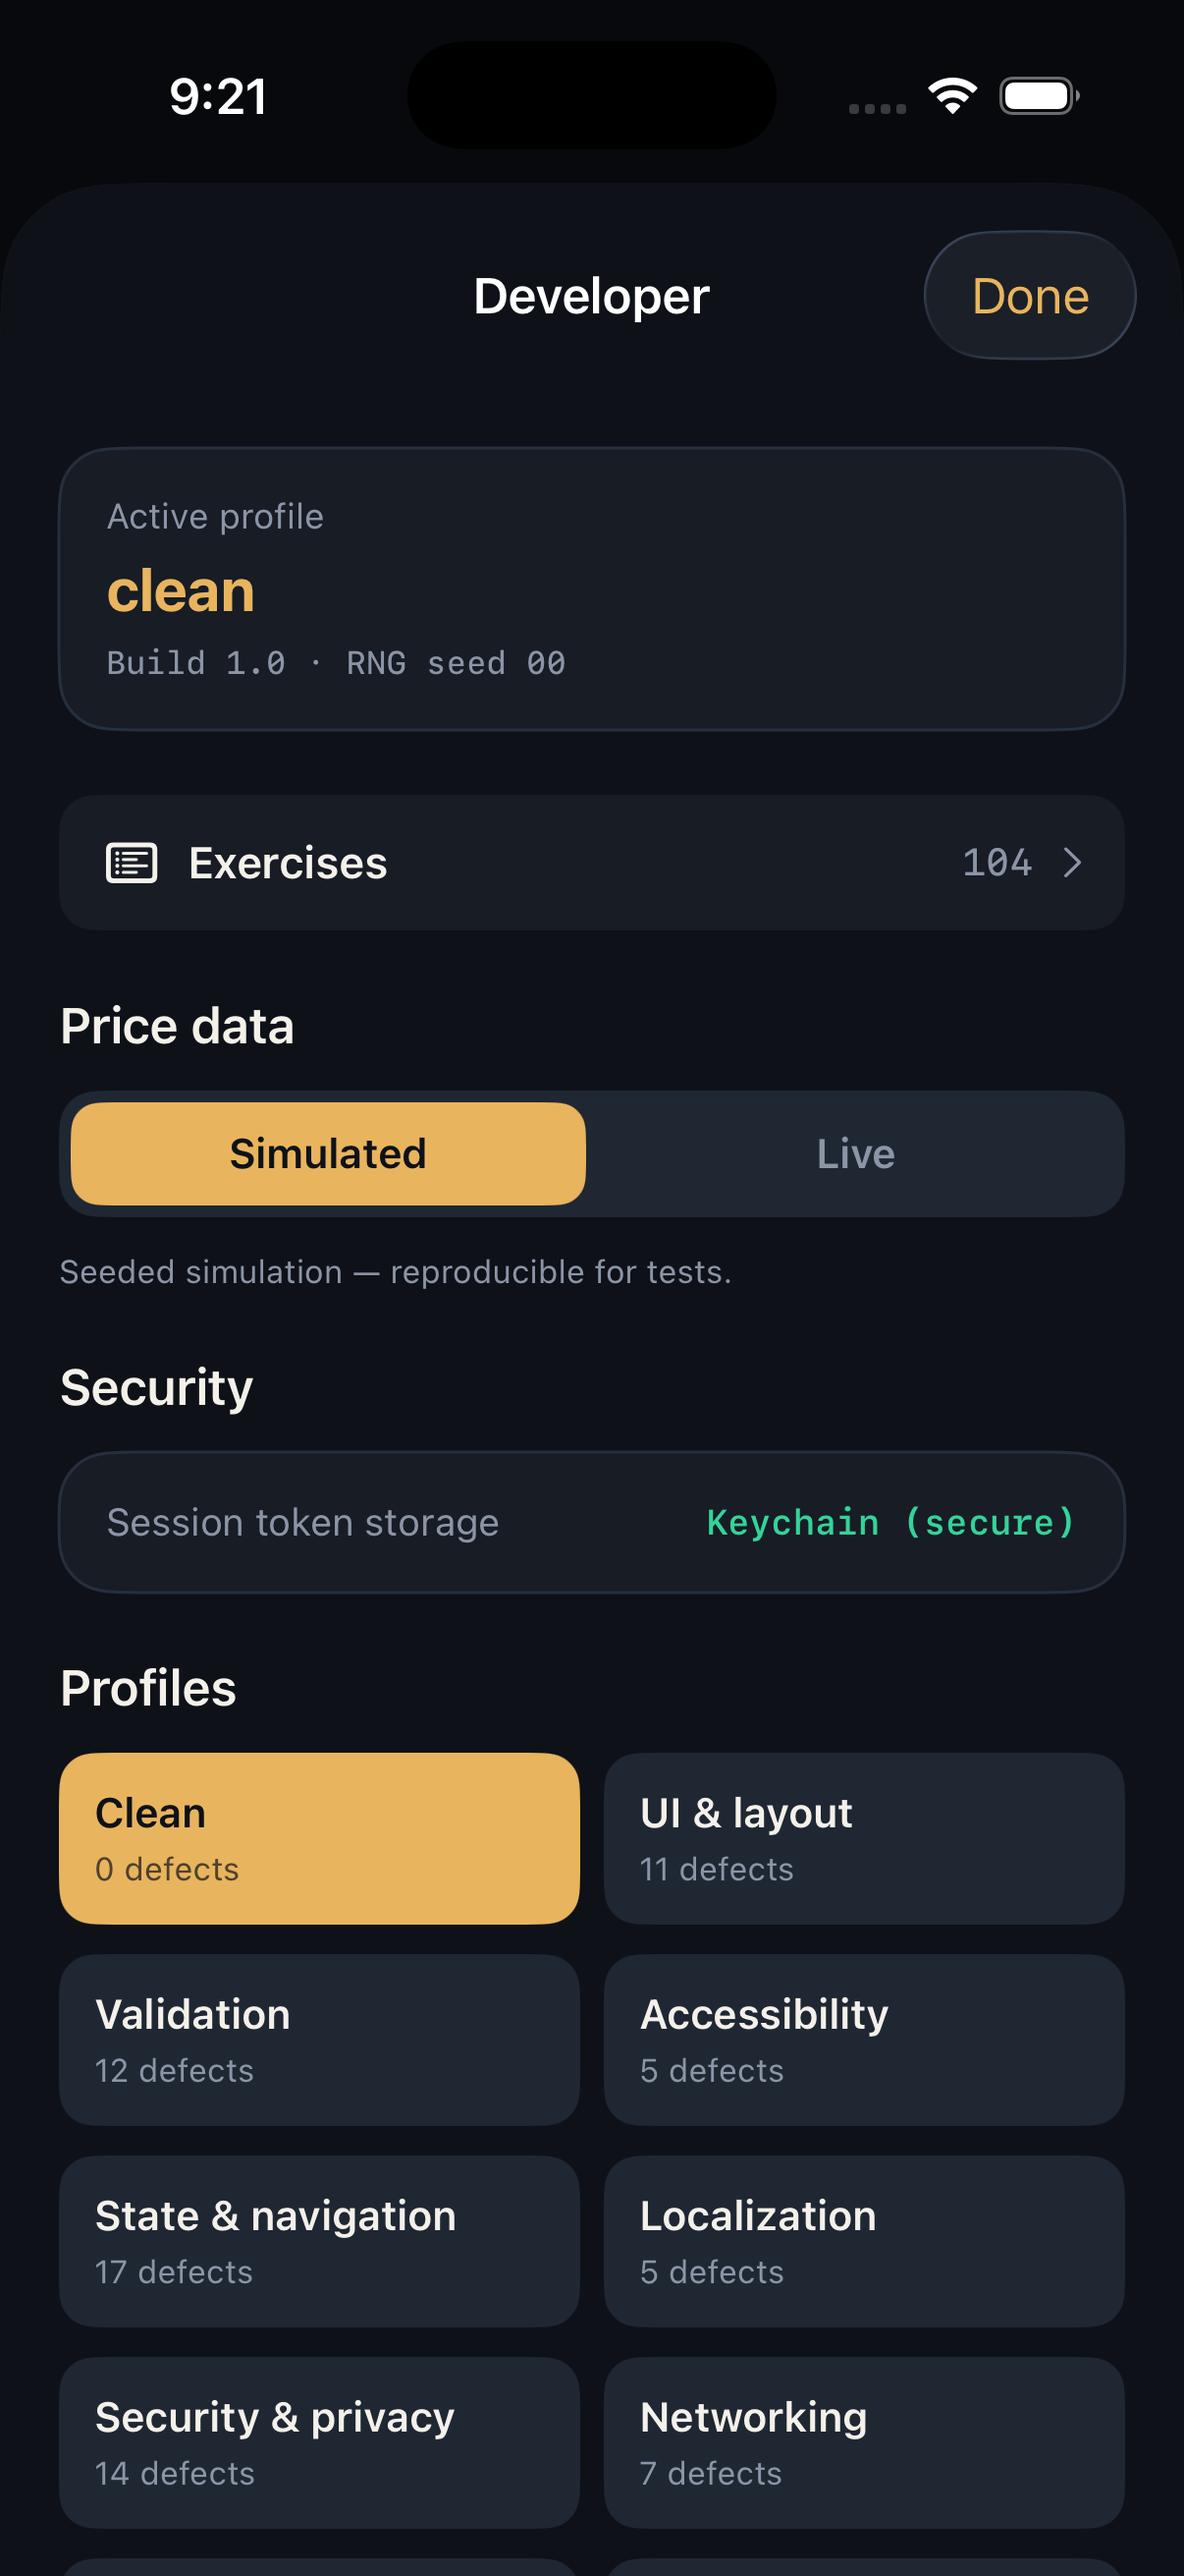
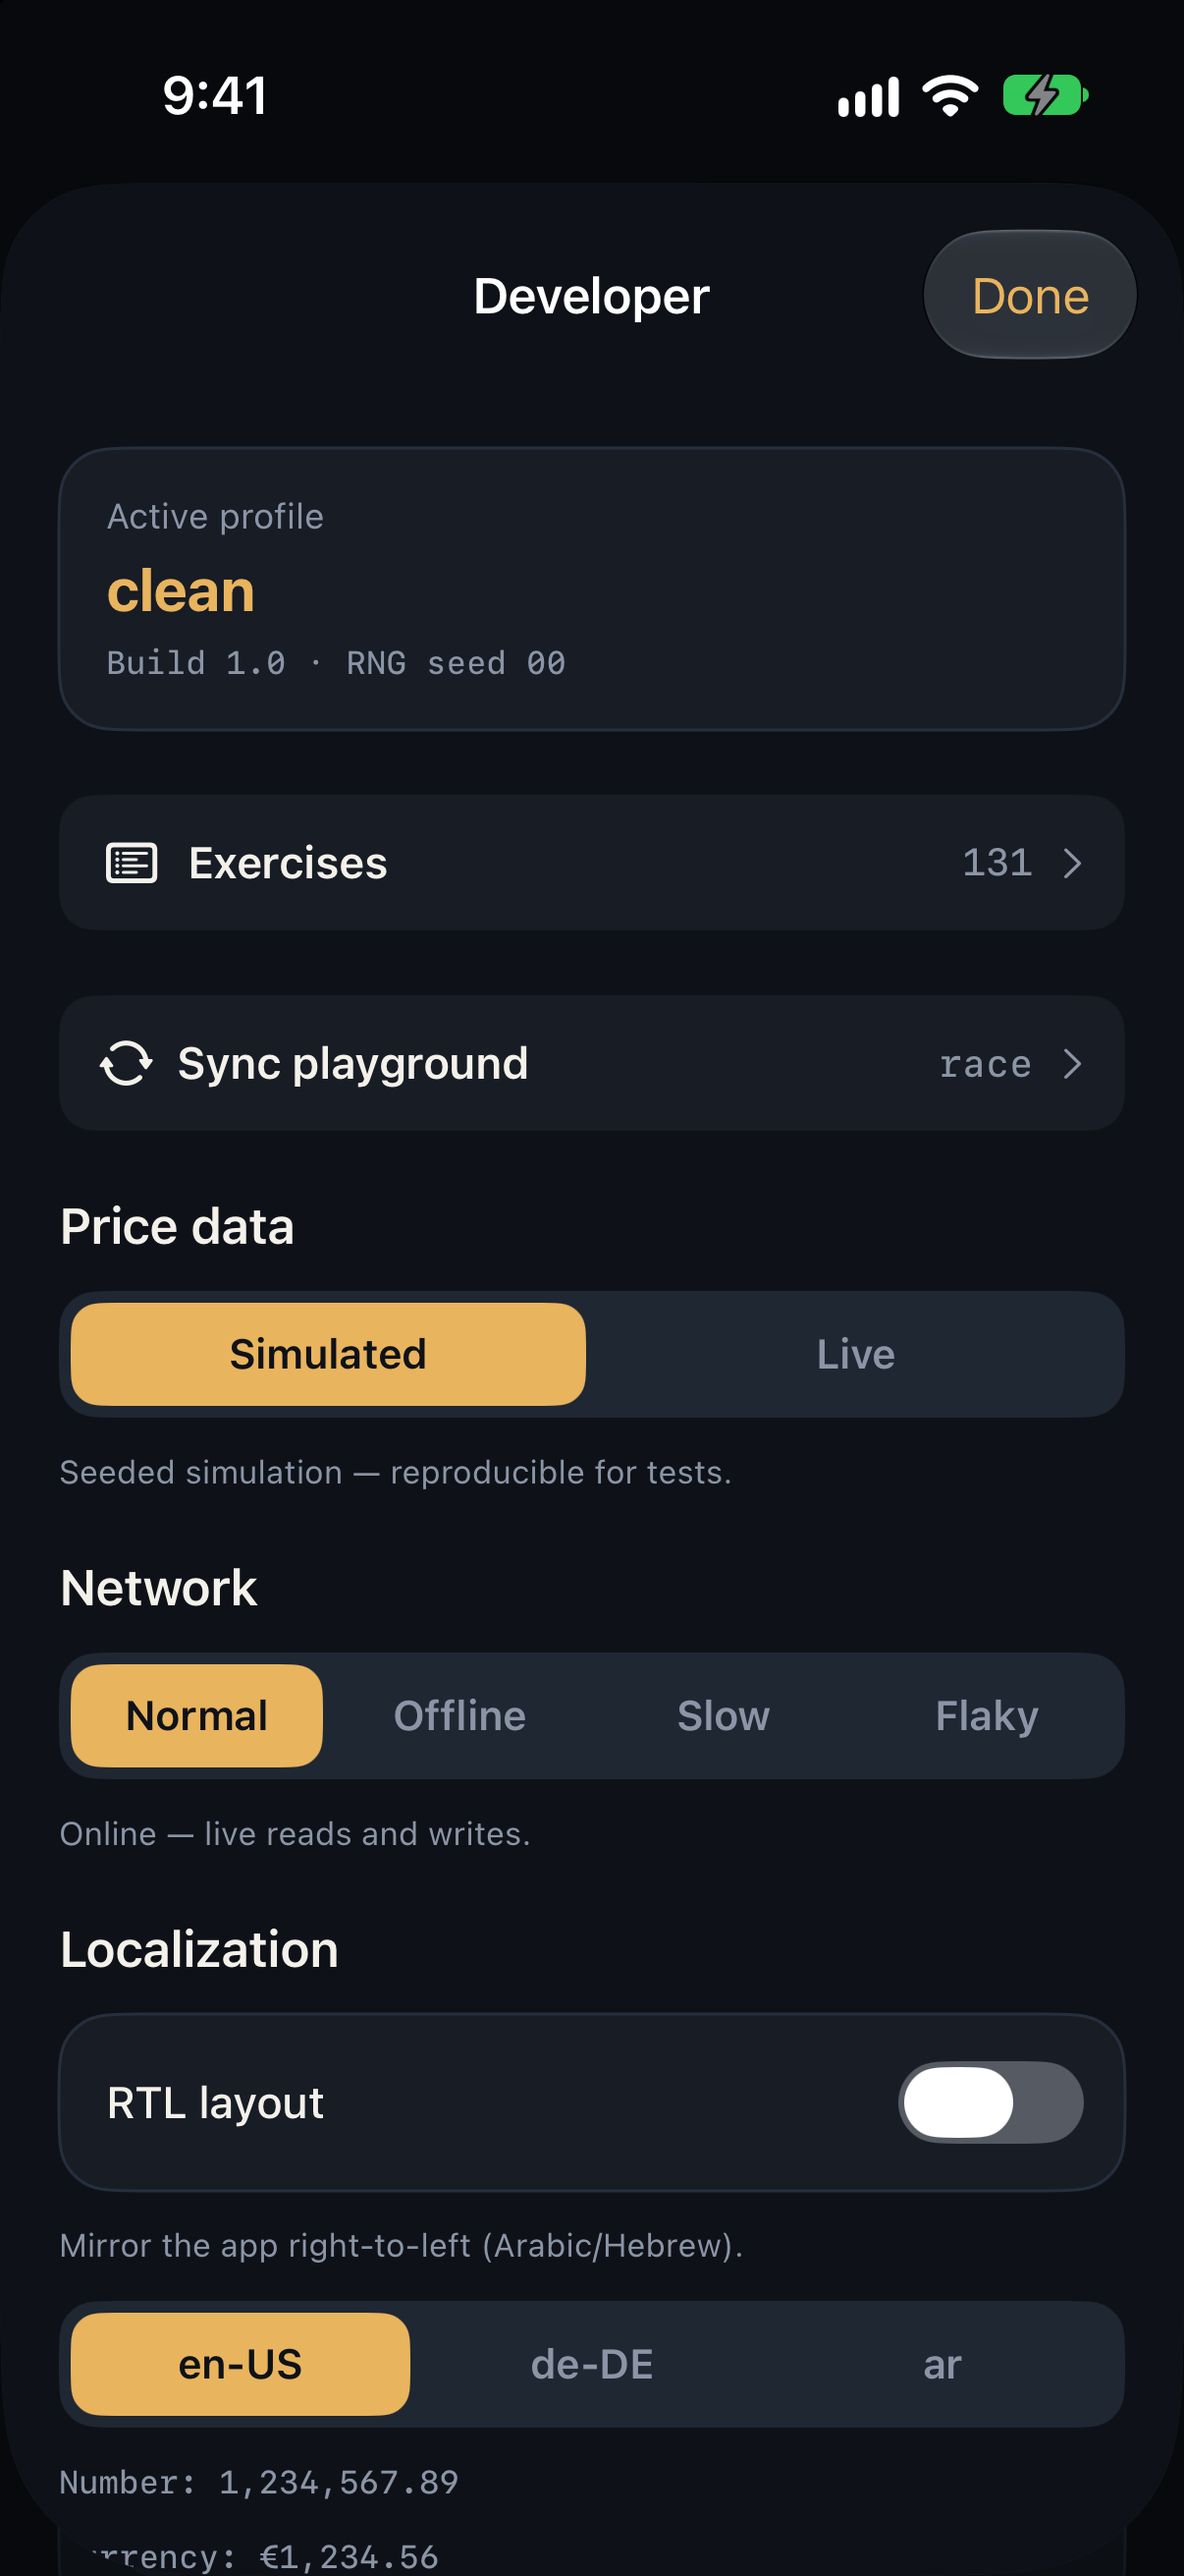
docs: update test and defect counts, refresh the dev-menu screenshot
The unit suite is now 209 tests and the catalog has 131 defects; the
dev-menu screenshot showed an old exercise count.

diff --git a/README.md b/README.md
@@ -339,7 +339,7 @@ xcrun simctl launch <device> VadimToptunov.ChaosBank -ChaosBankProfile flaky
 
 A unit-test target (`ChaosBankTests`, XCTest) covers the correct baseline and the
 regression pattern — the same assertion passes on `clean` and fails when a defect
-is active. **205 tests** across the catalog (integrity, profiles, exercises), money
+is active. **209 tests** across the catalog (integrity, profiles, exercises), money
 & rounding, locale parsing, the mock backend & every network scenario/error path
 (including offline mode), the seeded price feed, the auth ladder, and every view model (Home, Transfer,
 Exchange, Transactions, Order, Portfolio, Card + TokenStore).

diff --git a/docs/USER_GUIDE.md b/docs/USER_GUIDE.md
@@ -21,7 +21,7 @@ networking, security, accessibility, performance).
   write against `clean` keeps finding its elements when a defect is active; it just
   starts *failing on the assertion*, which is exactly what a good regression test should
   do.
-- **119 defects, each with an exercise.** Every defect has a matching, self-contained
+- **131 defects, each with an exercise.** Every defect has a matching, self-contained
   task in [`exercises.json`](../exercises.json).
 
 ---
